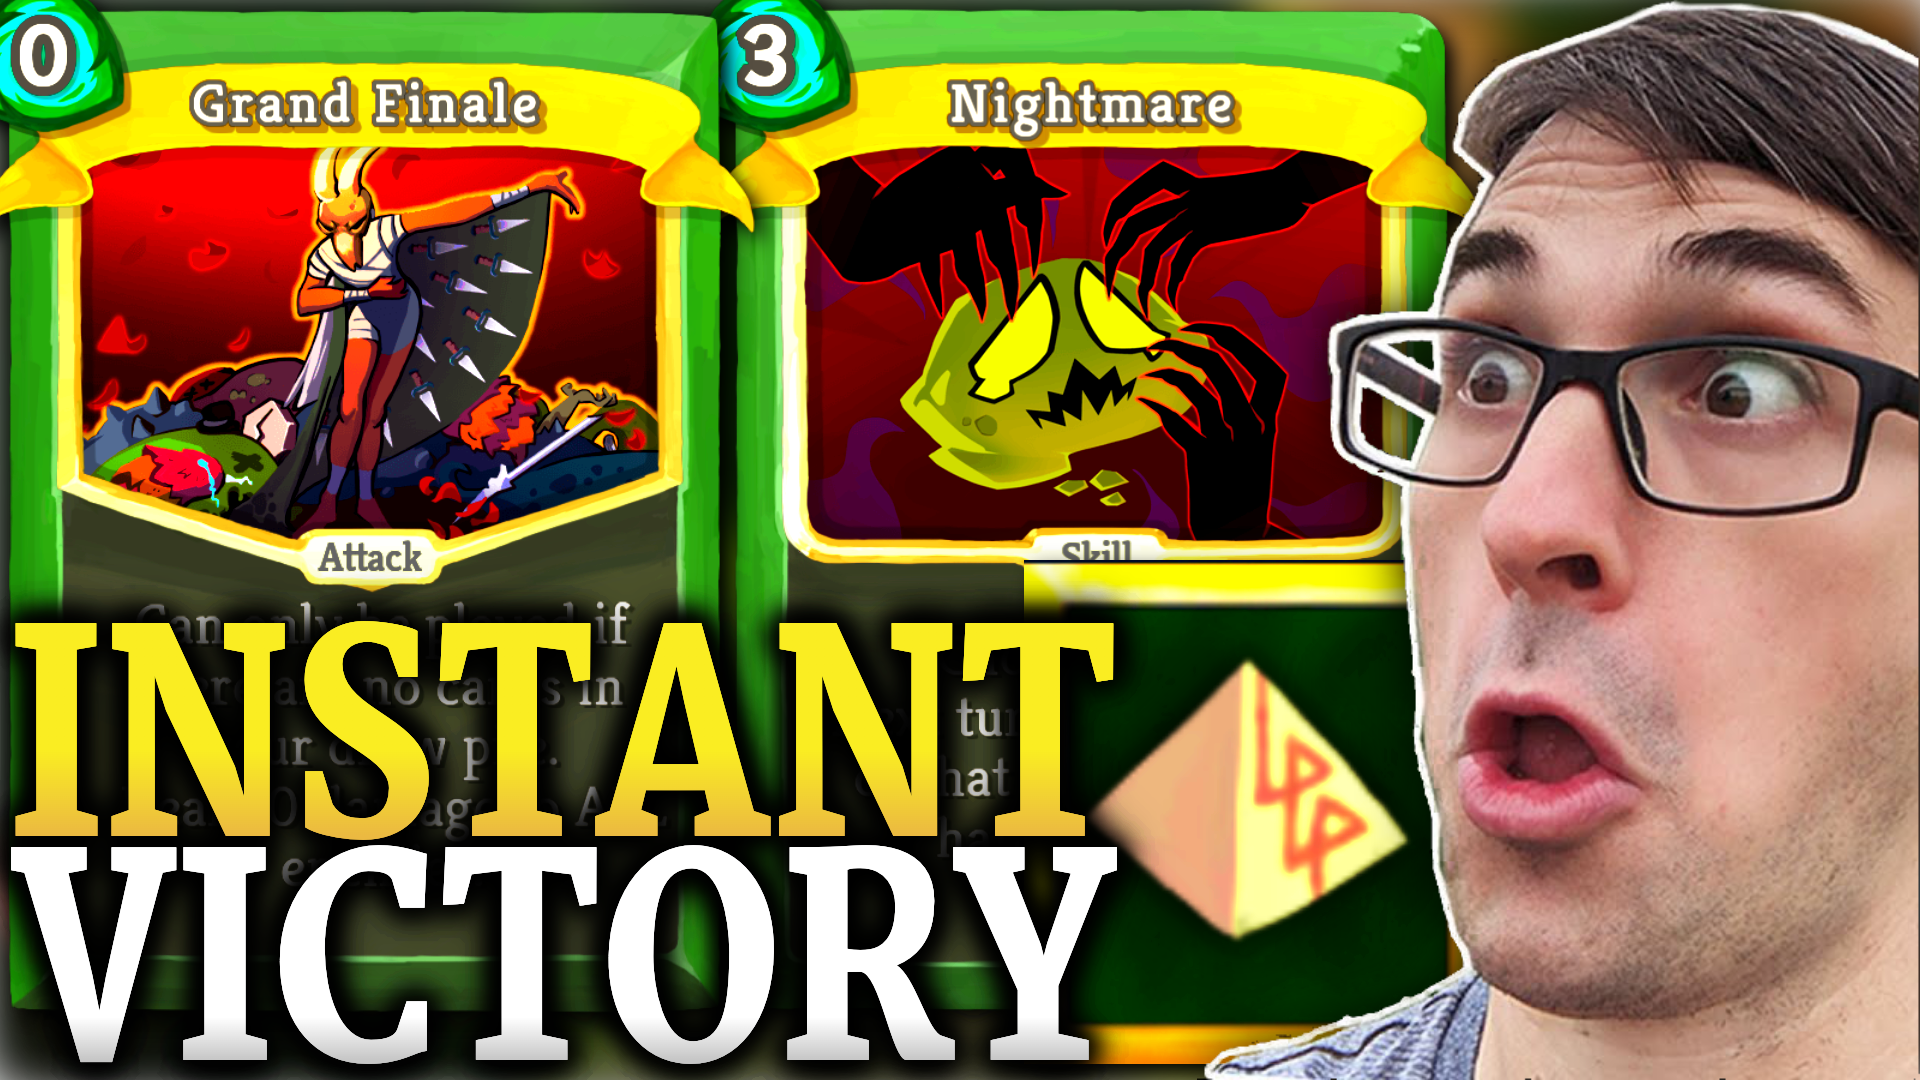
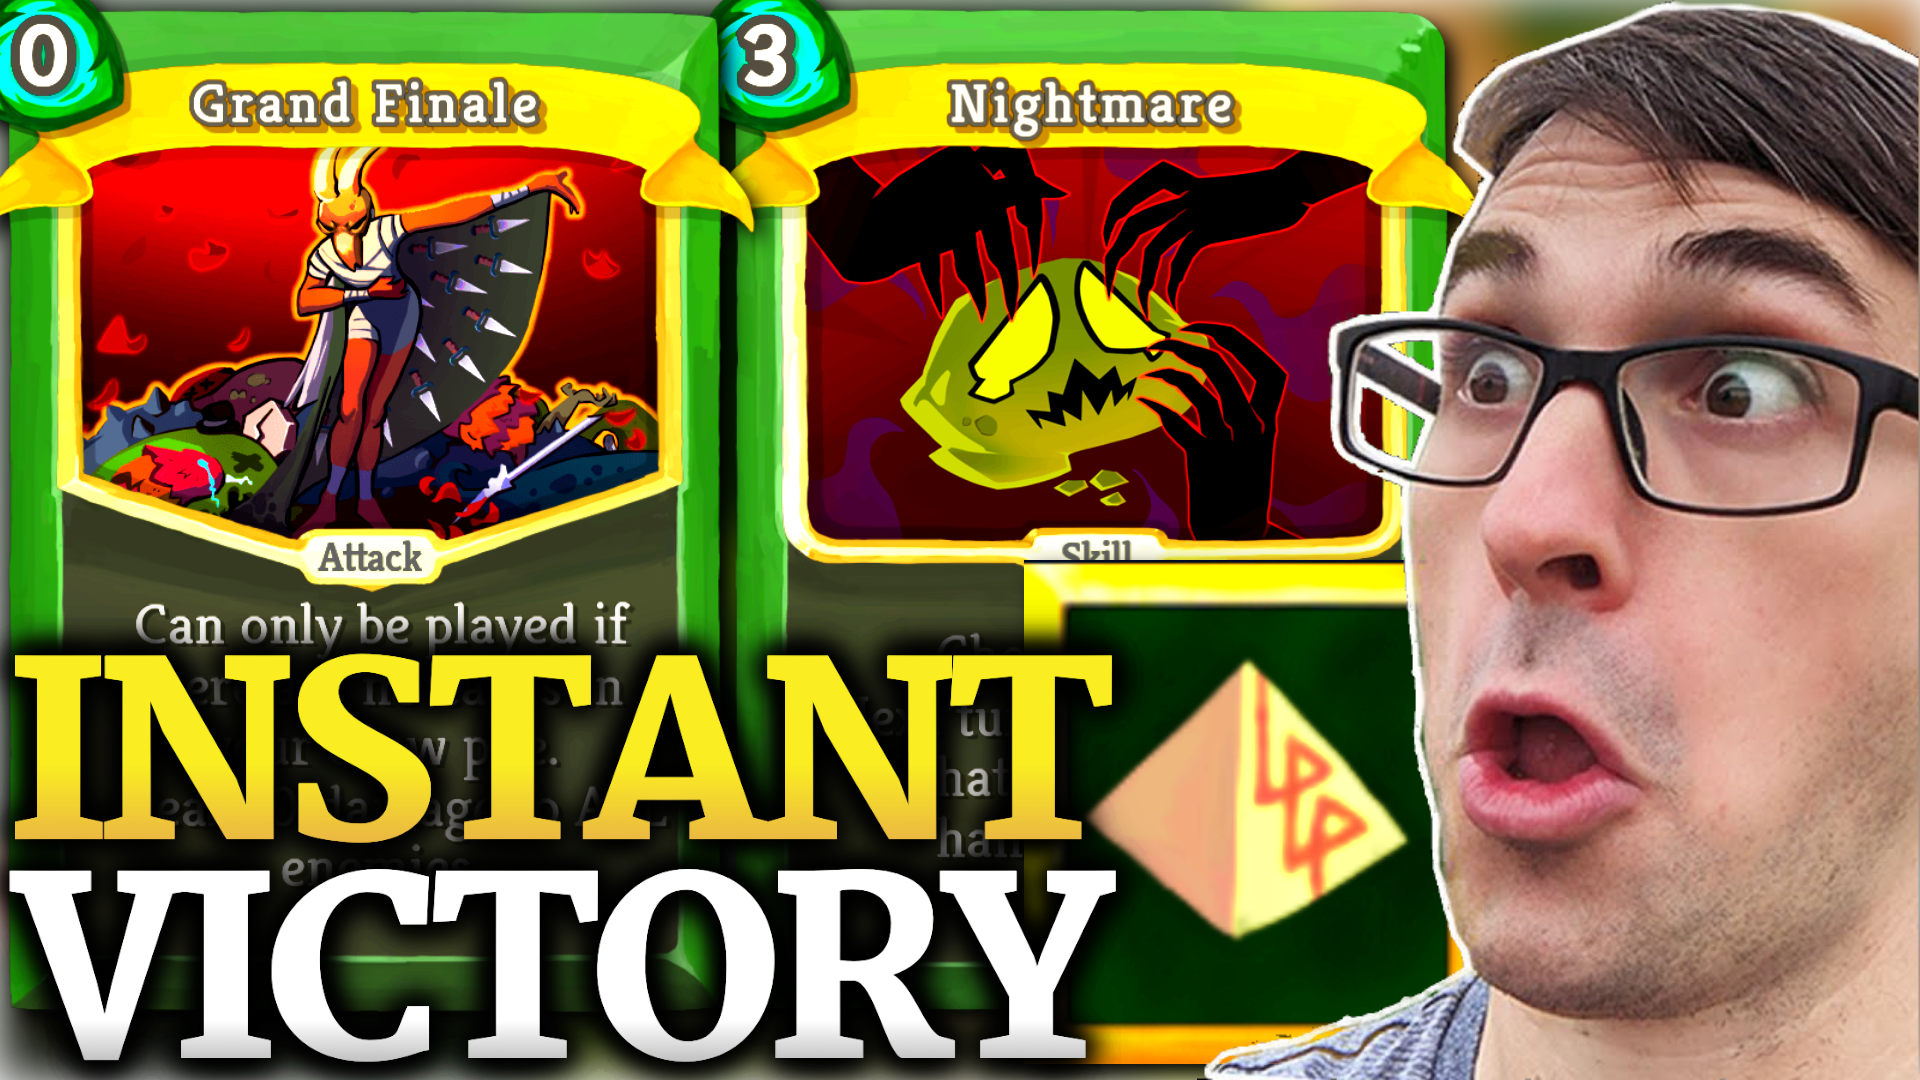
Additional text rendering improvements

diff --git a/html/index.html b/html/index.html
@@ -2422,7 +2422,8 @@
 
                     if (!bufferContextRef.current) {
                         const c = document.createElement('canvas');
-                        c.width = canvas.width;
+                        // We'll make it wider to fit more text
+                        c.width = canvas.width * 2; 
                         c.height = canvas.height;
                         bufferContextRef.current = c.getContext('2d');
                     }
@@ -2612,30 +2613,71 @@
                     // Will allow us to apply a single drop shadow to all of the
                     // text without it spilling onto the first line when the 
                     // second line gets drawn.
+                    let textUsedWidth = 0;
                     withLocalContext(bufferContext, (context) => {
-                        const fontSize = 280;
-                        context.font = `small-caps bolder ${fontSize}px Merriweather-Heavy`;
+                        function getFontString(size) {
+                            return `small-caps bolder ${size}px Merriweather-Heavy`;
+                        }
+                        const baseFontSize = 280;
+                        context.font = getFontString(baseFontSize);
                         context.strokeStyle = 'black';
                         context.lineWidth = 5;
                         
                         const line1Size = context.measureText(line1);
                         const line2Size = context.measureText(line2);
 
-                        const maxWidth = Math.min(
-                            availableTextSpace,
+                        textUsedWidth = Math.min(
                             line1Size.width,
                             line2Size.width
                         );
 
-                        const line1X = Math.max(10, (availableTextSpace - maxWidth) / 2);
-                        const line1Y = context.canvas.height - line1Size.actualBoundingBoxAscent - 30;
+                        const textSpacingForAvailableSpace = Math.max(10, (availableTextSpace - textUsedWidth) / 2);
 
-                        const line2X = line1X;
-                        const line2Y = line1Y + line1Size.actualBoundingBoxAscent + 10;
+                        const line2X = textSpacingForAvailableSpace;
+                        const line2DistanceToBottom = 25;
+                        const line2Y = context.canvas.height - line2DistanceToBottom;
+                        
+                        const line1X = textSpacingForAvailableSpace;
 
+                        const letterSpacing = -15;
+                        const line1SpacedWidth = line1Size.width + (letterSpacing * (line1.length - 1));
+                        const line2SpacedWidth = line2Size.width + (letterSpacing * (line2.length - 1));
+
+                        textUsedWidth = Math.min(line1SpacedWidth, line2SpacedWidth);
+                        
+                        const line1Delta = line2SpacedWidth - line1SpacedWidth;
+                        const line1Scale = (line1Delta + line1Size.width) / line1Size.width;
+                        
+                        const line2Delta = line1SpacedWidth - line2SpacedWidth;
+                        const line2Scale = (line2Delta + line2Size.width) / line2Size.width;
+
+                        const line1FontSize = baseFontSize * Math.min(line1Scale, 1);
+                        const line2FontSize = baseFontSize * Math.min(line2Scale, 1);
+                        
+                        context.font = getFontString(line2FontSize);
+                        const line2AdjustedSize = context.measureText(line1);
+                        
+                        const grayGradient = context.createLinearGradient(
+                            0,
+                            line2Y-line2AdjustedSize.actualBoundingBoxAscent,
+                            0, 
+                            line2Y
+                        );
+                        grayGradient.addColorStop(0, 'white');
+                        grayGradient.addColorStop(0.8, 'white');
+                        grayGradient.addColorStop(1, '#c6c6c6');
+
+                        context.fillStyle = grayGradient;
+                        context.fillTextWithSpacing(line2, line2X, line2Y, letterSpacing);
+
+                        context.font = getFontString(line1FontSize);
+                        const line1AdjustedSize = context.measureText(line1);
+                        const lineDistance = 35;
+                        const line1Y = line2Y - line2AdjustedSize.actualBoundingBoxAscent - lineDistance;
+                        
                         const goldGradient = context.createLinearGradient(
                             0,
-                            line1Y-line1Size.actualBoundingBoxAscent,
+                            line1Y-line1AdjustedSize.actualBoundingBoxAscent,
                             0, 
                             line1Y
                         );
@@ -2643,34 +2685,28 @@
                         goldGradient.addColorStop(0.6, '#faed22');
                         goldGradient.addColorStop(1, '#ebb941');
 
-                        const line2Gradient = context.createLinearGradient(
-                            0,
-                            line2Y-line2Size.actualBoundingBoxAscent,
-                            0, 
-                            line2Y
-                        );
-                        line2Gradient.addColorStop(0, 'white');
-                        line2Gradient.addColorStop(0.8, 'white');
-                        line2Gradient.addColorStop(1, '#c6c6c6');
-                        
                         context.fillStyle = goldGradient;
-                        context.fillText(line1, line1X, line1Y, maxWidth);
-
-                        context.fillStyle = line2Gradient;
-                        context.fillText(line2, line2X, line2Y, maxWidth);
+                        context.fillTextWithSpacing(line1, line1X, line1Y, letterSpacing);
                     });
-                        
-                    // Repeated draws to intensify the shadow effect
-                    enableSpreadShadow(context, 30);
-                    context.drawImage(bufferContext.canvas, 0, 0)
-                    context.drawImage(bufferContext.canvas, 0, 0)
-                    context.drawImage(bufferContext.canvas, 0, 0)
-                    context.drawImage(bufferContext.canvas, 0, 0)
-                    context.drawImage(bufferContext.canvas, 0, 0)
-                    enableSpreadShadow(context, 40);
-                    context.drawImage(bufferContext.canvas, 0, 0)
-                    enableSpreadShadow(context, 50);
-                    context.drawImage(bufferContext.canvas, 0, 0)
+
+                    withLocalContext(context, (context) => {
+                        // Scale text down to fit into available space
+                        const textScale = Math.min(availableTextSpace / textUsedWidth, 1);
+                        context.translate(0, context.canvas.height - (context.canvas.height * textScale));
+                        context.scale(textScale, textScale);
+                            
+                        // Repeated draws to intensify the shadow effect
+                        enableSpreadShadow(context, 30);
+                        context.drawImage(bufferContext.canvas, 0, 0)
+                        context.drawImage(bufferContext.canvas, 0, 0)
+                        context.drawImage(bufferContext.canvas, 0, 0)
+                        context.drawImage(bufferContext.canvas, 0, 0)
+                        context.drawImage(bufferContext.canvas, 0, 0)
+                        enableSpreadShadow(context, 40);
+                        context.drawImage(bufferContext.canvas, 0, 0)
+                        enableSpreadShadow(context, 50);
+                        context.drawImage(bufferContext.canvas, 0, 0)
+                    })
                 }, [
                     line1, 
                     line2, 
@@ -2866,6 +2902,41 @@
             }
 
             ReactDOM.render(<BaalorlordThumbnailGenerator />, document.getElementById("root"));
+
+            CanvasRenderingContext2D.prototype.fillTextWithSpacing = function(text, x, y, spacing) {
+                // Copied (and modified) from 
+                // https://stackoverflow.com/questions/8952909/letter-spacing-in-canvas-element
+                
+                // Start at position (X, Y).
+                // Measure wAll, the width of the entire string using measureText()
+                let wAll = Math.min(this.measureText(text).width);
+
+                do {
+                    // Remove the first character from the string
+                    const char = text.substr(0, 1);
+                    text = text.substr(1);
+
+                    // Print the first character at position (X, Y) using fillText()
+                    this.fillText(char, x, y);
+
+                    let wShorter = 0;
+                    // Measure wShorter, the width of the resulting shorter string using measureText().
+                    if (text !== "") {
+                        wShorter = this.measureText(text).width;
+                    }
+
+                    // Subtract the width of the shorter string from the width of the entire string, giving the kerned width of the character, wChar = wAll - wShorter
+                    const wChar = wAll - wShorter;
+
+                    // Increment X by wChar + spacing
+                    x += wChar + spacing;
+
+                    // wAll = wShorter
+                    wAll = wShorter;
+
+                    // Repeat from step 3
+                } while (text !== "");
+            }
           </script>
     </body>
 </html>
